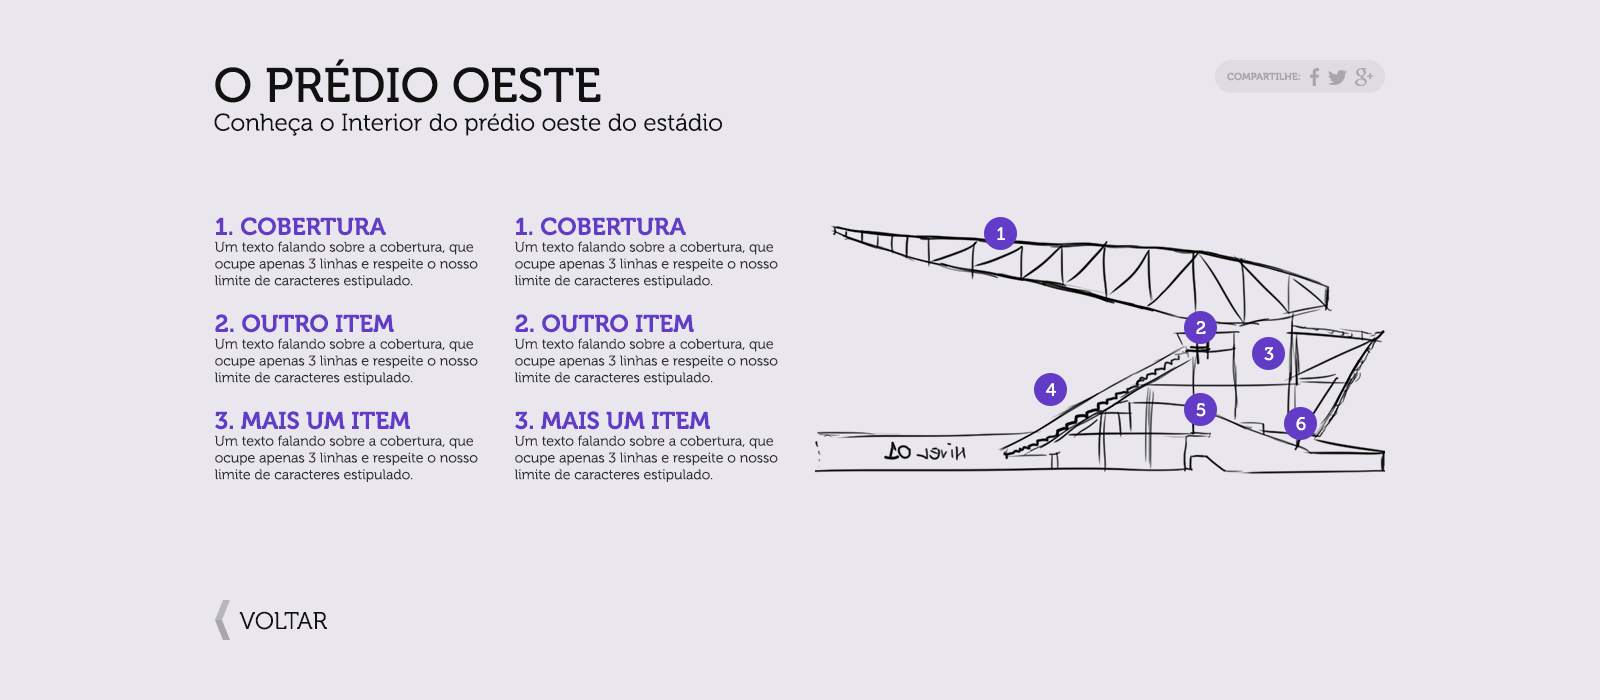
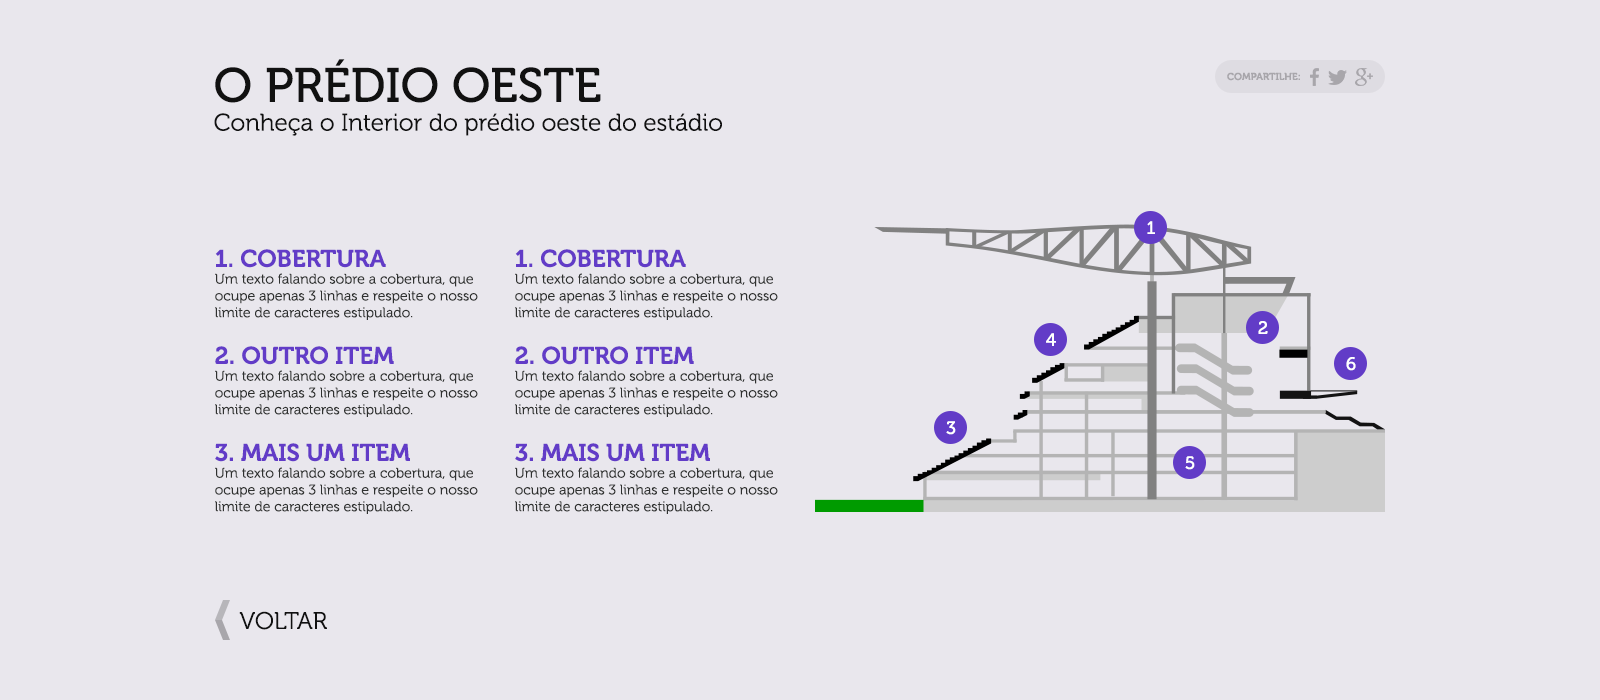
Automated commit at 2014-04-24 06:54:26 UTC by middleman-deploy 0.2.3

Changed region(s): [[0.125, 0.3, 0.875, 0.75]]

diff --git a/assets/stylesheets/arena-corinthians.css b/assets/stylesheets/arena-corinthians.css
@@ -1,1 +1,1 @@
-@import url(http://fonts.googleapis.com/css?family=Lato:300,400,700,300italic,400italic,700italic);*{-webkit-box-sizing:border-box;-moz-box-sizing:border-box;box-sizing:border-box}@-webkit-keyframes pulse-point{0%,100%{background-color:rgba(255,255,255,0.9)}50%{background-color:rgba(255,255,255,0.6)}}@-moz-keyframes pulse-point{0%,100%{background-color:rgba(255,255,255,0.9)}50%{background-color:rgba(255,255,255,0.6)}}@-o-keyframes pulse-point{0%,100%{background-color:rgba(255,255,255,0.9)}50%{background-color:rgba(255,255,255,0.6)}}@keyframes pulse-point{0%,100%{background-color:rgba(255,255,255,0.9)}50%{background-color:rgba(255,255,255,0.6)}}@font-face{font-family:'Museo300Regular';src:url("../fonts/museo_300/Museo300-Regular-webfont.eot");src:url("../fonts/museo_300/Museo300-Regular-webfont.eot?#iefix") format("embedded-opentype"),url("../fonts/museo_300/Museo300-Regular-webfont.woff") format("woff"),url("../fonts/museo_300/Museo300-Regular-webfont.ttf") format("truetype"),url("../fonts/museo_300/Museo300-Regular-webfont.svg#Museo300Regular") format("svg");font-weight:400;font-style:normal}@font-face{font-family:'Museo500Regular';src:url("../fonts/museo_500/Museo500-Regular-webfont.eot");src:url("../fonts/museo_500/Museo500-Regular-webfont.eot?#iefix") format("embedded-opentype"),url("../fonts/museo_500/Museo500-Regular-webfont.woff") format("woff"),url("../fonts/museo_500/Museo500-Regular-webfont.ttf") format("truetype"),url("../fonts/museo_500/Museo500-Regular-webfont.svg#Museo500Regular") format("svg");font-weight:400;font-style:normal}@font-face{font-family:'Museo700Regular';src:url("../fonts/museo_700/Museo700-Regular-webfont.eot");src:url("../fonts/museo_700/Museo700-Regular-webfont.eot?#iefix") format("embedded-opentype"),url("../fonts/museo_700/Museo700-Regular-webfont.woff") format("woff"),url("../fonts/museo_700/Museo700-Regular-webfont.ttf") format("truetype"),url("../fonts/museo_700/Museo700-Regular-webfont.svg#Museo700Regular") format("svg");font-weight:400;font-style:normal}*{margin:0;padding:0;-webkit-box-sizing:border-box;-moz-box-sizing:border-box;box-sizing:border-box}*:after,*:before{-webkit-box-sizing:border-box;-moz-box-sizing:border-box;box-sizing:border-box}html{background:white}body{font-size:100%;line-height:1;font-family:Open Sans,Arial,Helvetica,Sans-serif}img{max-width:100%}main{display:block}body{-webkit-font-smoothing:antialiased;-moz-font-smoothing:antialiased;font-smoothing:antialiased;background-color:white;font-size:15px;padding:0;font-family:"Lato",sans-serif}.section{position:relative}#infographic{width:100%}#infographic .section{background-color:white;background-position:center top;background-repeat:no-repeat}#infographic .container{height:700px;margin:0 auto;max-width:1200px;outline:1px solid red;padding:60px 10px;position:relative}#infographic .title{position:absolute;top:57px;left:15px;width:1000px}#infographic .title h1{font-family:Museo500Regular;text-transform:uppercase;font-size:48px;line-height:47px;letter-spacing:-1px;color:#2e3130}#infographic .title p{font-family:Museo300Regular;font-size:24px;color:red;letter-spacing:-0.2px;line-height:28px;color:#2e3130}#start{background-image:url("../images/arena-corinthians/start/arena-corinthians.png");background-color:white}#start .title h1{color:#623cc7}#start .title p{color:#2e3130}#start .arena-hover{-webkit-transition:all .2s linear;-webkit-transition-delay:0s;-moz-transition:all .2s linear false;-o-transition:all .2s linear false;transition:all .2s linear false;position:absolute;opacity:0;cursor:pointer}#start .arena-hover:hover{opacity:1}#start #arena-corinthians-leste{width:598px;height:315px;background-image:url("../images/arena-corinthians/start/arena-corinthians-leste-hover.png");top:226px;left:101px}#start #arena-corinthians-oeste{width:632px;height:261px;background-image:url("../images/arena-corinthians/start/arena-corinthians-oeste-hover.png");top:166px;left:466px}#start #pontos li{width:30px;height:30px;-webkit-border-radius:30px;-moz-border-radius:30px;-ms-border-radius:30px;-o-border-radius:30px;border-radius:30px;-webkit-animation:pulse-point 3s infinite;-moz-animation:pulse-point 3s infinite;animation:pulse-point 3s infinite;-webkit-box-shadow:0 0 3px #cccccc;-moz-box-shadow:0 0 3px #cccccc;box-shadow:0 0 3px #cccccc;list-style:none;background-color:rgba(255,255,255,0.5);position:absolute;cursor:pointer;z-index:1}#start #pontos li:before{width:14px;height:14px;-webkit-border-radius:14px;-moz-border-radius:14px;-ms-border-radius:14px;-o-border-radius:14px;border-radius:14px;-webkit-transition:all .1s linear;-webkit-transition-delay:0s;-moz-transition:all .1s linear false;-o-transition:all .1s linear false;transition:all .1s linear false;position:absolute;top:8px;left:8px;content:"";background-color:#623cc7}#start #pontos li#ponto-1{top:505px;left:155px}#start #pontos li#ponto-2{top:393px;left:285px}#start #pontos li#ponto-3{top:312px;left:385px}#start #pontos li#ponto-4{top:299px;left:631px}#start #pontos li#ponto-5{top:415px;left:624px}#start #pontos li#ponto-6{top:281px;left:685px}#start #pontos li#ponto-7{top:366px;left:685px}#start #pontos li#ponto-8{top:374px;left:835px}#start #pontos li#ponto-9{top:205px;left:1035px}#start #pontos li:hover{-webkit-box-shadow:0 0 3px #aaaaaa;-moz-box-shadow:0 0 3px #aaaaaa;box-shadow:0 0 3px #aaaaaa;-webkit-animation:pulse-point .5s infinite;-moz-animation:pulse-point .5s infinite;animation:pulse-point .5s infinite;z-index:2}#start #pontos li:hover:before{width:18px;height:18px;-webkit-border-radius:18px;-moz-border-radius:18px;-ms-border-radius:18px;-o-border-radius:18px;border-radius:18px;top:6px;left:6px}#start #pontos li:hover span{opacity:1;top:-51px}#start #pontos li span{-webkit-transition:all .2s linear;-webkit-transition-delay:0s;-moz-transition:all .2s linear false;-o-transition:all .2s linear false;transition:all .2s linear false;opacity:0;background:#623cc7;text-transform:uppercase;font-size:18px;color:white;position:absolute;top:-41px;left:-200%;line-height:32px;padding:0 30px;border-radius:6px}#start #pontos li span:before{width:0;height:0;content:"";font-family:Museo500Regular;border:10px solid transparent;border-color:#623cc7 transparent transparent transparent;position:absolute;left:calc(50% - 20px);bottom:-20px}#start #menu{text-transform:uppercase;font-size:28px;position:absolute;top:560px;left:15px;width:100%;text-align:center;font-family:Museo700Regular}#start #menu ul{list-style:none}#start #menu li{display:block;width:270px;margin-right:30px;height:80px;position:relative;float:left}#start #menu li:hover:before{color:#623cc7;left:10px}#start #menu li:hover:after{color:#623cc7;right:10px}#start #menu li:before{-webkit-transition:all .2s linear;-webkit-transition-delay:0s;-moz-transition:all .2s linear false;-o-transition:all .2s linear false;transition:all .2s linear false;content:"{";font-size:96px;position:absolute;top:-8px;left:0;color:#ceccd1}#start #menu li:after{-webkit-transition:all .2s linear;-webkit-transition-delay:0s;-moz-transition:all .2s linear false;-o-transition:all .2s linear false;transition:all .2s linear false;content:"}";font-size:96px;position:absolute;top:-8px;right:0;color:#ceccd1}#start #menu a{display:block;text-decoration:none;padding-top:16px;color:#623cc7}#start #menu span{display:block;font-size:18px;color:#9c9b9f}#east_building{background-image:url("../images/arena-corinthians/layout/east_building.png");background-color:white;background-position:center top;height:700px;width:1200px}#east_building .title{position:absolute;top:63px;left:14px;letter-spacing:-2px;width:550px;color:red}#east_building .title h1{font-family:Museo500Regular;text-transform:uppercase;font-size:48px}#east_building .title p{font-family:Museo300Regular;font-size:24px;letter-spacing:.8px;line-height:26px}#west_building{background-image:url("../images/arena-corinthians/layout/west_building.png");background-color:white;background-position:center top;height:700px;width:1200px}#west_building .title{position:absolute;top:63px;left:14px;letter-spacing:-2px;width:550px;color:red}#west_building .title h1{font-family:Museo500Regular;text-transform:uppercase;font-size:48px}#west_building .title p{font-family:Museo300Regular;font-size:24px;letter-spacing:.8px;line-height:26px}#lockers{background-image:url("../images/arena-corinthians/layout/lockers.png");background-color:white;background-position:center top;height:700px;width:1200px}#lockers .title{position:absolute;top:63px;left:14px;letter-spacing:-2px;width:550px;color:red}#lockers .title h1{font-family:Museo500Regular;text-transform:uppercase;font-size:48px}#lockers .title p{font-family:Museo300Regular;font-size:24px;letter-spacing:.8px;line-height:26px}#screen{background-image:url("../images/arena-corinthians/layout/screen.png");background-color:white;background-position:center top;height:700px;width:1200px}#screen .title{position:absolute;top:63px;left:14px;letter-spacing:-2px;width:550px;color:red}#screen .title h1{font-family:Museo500Regular;text-transform:uppercase;font-size:48px}#screen .title p{font-family:Museo300Regular;font-size:24px;letter-spacing:.8px;line-height:26px}#comparative{background-image:url("../images/arena-corinthians/layout/comparative.png");background-color:white;background-position:center top;height:700px;width:1200px}#comparative .title{position:absolute;top:63px;left:14px;letter-spacing:-2px;width:550px;color:red}#comparative .title h1{font-family:Museo500Regular;text-transform:uppercase;font-size:48px}#comparative .title p{font-family:Museo300Regular;font-size:24px;letter-spacing:.8px;line-height:26px}#about{background-image:url("../images/arena-corinthians/layout/about.png");background-color:white;background-position:center top;height:700px;width:1200px}#about .title{position:absolute;top:63px;left:14px;letter-spacing:-2px;width:550px;color:red}#about .title h1{font-family:Museo500Regular;text-transform:uppercase;font-size:48px}#about .title p{font-family:Museo300Regular;font-size:24px;letter-spacing:.8px;line-height:26px}#numbers{background-image:url("../images/arena-corinthians/layout/numbers.png");background-color:white;background-position:center top;height:700px;width:1200px}#numbers .title{position:absolute;top:63px;left:14px;letter-spacing:-2px;width:650px;color:red}#numbers .title h1{font-family:Museo500Regular;text-transform:uppercase;font-size:48px}#numbers .title p{font-family:Museo300Regular;font-size:24px;letter-spacing:.8px;line-height:26px}#controversies{background-image:url("../images/arena-corinthians/layout/controversies.png");background-color:white;background-position:center top;height:700px;width:1200px}#controversies .title{position:absolute;top:63px;left:14px;letter-spacing:-2px;width:650px;color:red}#controversies .title h1{font-family:Museo500Regular;text-transform:uppercase;font-size:48px}#controversies .title p{font-family:Museo300Regular;font-size:24px;letter-spacing:.8px;line-height:26px}#curiosities{background-image:url("../images/arena-corinthians/layout/curiosities.png");background-color:white;background-position:center top;height:700px;width:1200px}#curiosities .title{position:absolute;top:63px;left:14px;letter-spacing:-2px;width:650px;color:red}#curiosities .title h1{font-family:Museo500Regular;text-transform:uppercase;font-size:48px}#curiosities .title p{font-family:Museo300Regular;font-size:24px;letter-spacing:.8px;line-height:26px}#vote{background-image:url("../images/arena-corinthians/layout/vote.png");background-color:white;background-position:center top;height:700px;width:1200px}#vote .title{position:absolute;top:63px;left:14px;letter-spacing:-2px;width:100%;text-align:center;color:red}#vote .title h1{font-family:Museo500Regular;text-transform:uppercase;font-size:48px}#vote .title p{font-family:Museo700Regular;font-size:24px;letter-spacing:.8px;line-height:26px;margin-top:50px}@media print{*{-webkit-print-color-adjust:exact}body{padding:0;background-color:transparent}a{text-decoration:none}}
+@import url(http://fonts.googleapis.com/css?family=Lato:300,400,700,300italic,400italic,700italic);*{-webkit-box-sizing:border-box;-moz-box-sizing:border-box;box-sizing:border-box}@-webkit-keyframes pulse-point{0%,100%{background-color:rgba(255,255,255,0.9)}50%{background-color:rgba(255,255,255,0.6)}}@-moz-keyframes pulse-point{0%,100%{background-color:rgba(255,255,255,0.9)}50%{background-color:rgba(255,255,255,0.6)}}@-o-keyframes pulse-point{0%,100%{background-color:rgba(255,255,255,0.9)}50%{background-color:rgba(255,255,255,0.6)}}@keyframes pulse-point{0%,100%{background-color:rgba(255,255,255,0.9)}50%{background-color:rgba(255,255,255,0.6)}}@font-face{font-family:'Museo300Regular';src:url("../fonts/museo_300/Museo300-Regular-webfont.eot");src:url("../fonts/museo_300/Museo300-Regular-webfont.eot?#iefix") format("embedded-opentype"),url("../fonts/museo_300/Museo300-Regular-webfont.woff") format("woff"),url("../fonts/museo_300/Museo300-Regular-webfont.ttf") format("truetype"),url("../fonts/museo_300/Museo300-Regular-webfont.svg#Museo300Regular") format("svg");font-weight:400;font-style:normal}@font-face{font-family:'Museo500Regular';src:url("../fonts/museo_500/Museo500-Regular-webfont.eot");src:url("../fonts/museo_500/Museo500-Regular-webfont.eot?#iefix") format("embedded-opentype"),url("../fonts/museo_500/Museo500-Regular-webfont.woff") format("woff"),url("../fonts/museo_500/Museo500-Regular-webfont.ttf") format("truetype"),url("../fonts/museo_500/Museo500-Regular-webfont.svg#Museo500Regular") format("svg");font-weight:400;font-style:normal}@font-face{font-family:'Museo700Regular';src:url("../fonts/museo_700/Museo700-Regular-webfont.eot");src:url("../fonts/museo_700/Museo700-Regular-webfont.eot?#iefix") format("embedded-opentype"),url("../fonts/museo_700/Museo700-Regular-webfont.woff") format("woff"),url("../fonts/museo_700/Museo700-Regular-webfont.ttf") format("truetype"),url("../fonts/museo_700/Museo700-Regular-webfont.svg#Museo700Regular") format("svg");font-weight:400;font-style:normal}*{margin:0;padding:0;-webkit-box-sizing:border-box;-moz-box-sizing:border-box;box-sizing:border-box}*:after,*:before{-webkit-box-sizing:border-box;-moz-box-sizing:border-box;box-sizing:border-box}html{background:white}body{font-size:100%;line-height:1;font-family:Open Sans,Arial,Helvetica,Sans-serif}img{max-width:100%}main{display:block}body{-webkit-font-smoothing:antialiased;-moz-font-smoothing:antialiased;font-smoothing:antialiased;background-color:white;font-size:15px;padding:0;font-family:"Lato",sans-serif}.section{position:relative}#infographic{width:100%}#infographic .section{background-color:white;background-position:center top;background-repeat:no-repeat}#infographic .container{height:700px;margin:0 auto;max-width:1200px;outline:1px solid red;padding:60px 10px;position:relative}#infographic .title{position:absolute;top:57px;left:15px;width:1000px}#infographic .title h1{font-family:Museo500Regular;text-transform:uppercase;font-size:48px;line-height:47px;letter-spacing:-1px;color:#2e3130}#infographic .title p{font-family:Museo300Regular;font-size:24px;color:red;letter-spacing:-0.2px;line-height:28px;color:#2e3130}#start{background-image:url("../images/arena-corinthians/start/arena-corinthians.png");background-color:white}#start .title h1{color:#623cc7}#start .title p{color:#2e3130}#start .arena-hover{-webkit-transition:all .2s linear;-webkit-transition-delay:0s;-moz-transition:all .2s linear false;-o-transition:all .2s linear false;transition:all .2s linear false;position:absolute;opacity:0;cursor:pointer}#start .arena-hover:hover{opacity:1}#start #arena-corinthians-leste{width:598px;height:315px;background-image:url("../images/arena-corinthians/start/arena-corinthians-leste-hover.png");top:226px;left:101px}#start #arena-corinthians-oeste{width:632px;height:261px;background-image:url("../images/arena-corinthians/start/arena-corinthians-oeste-hover.png");top:166px;left:466px}#start #pontos li{width:30px;height:30px;-webkit-border-radius:30px;-moz-border-radius:30px;-ms-border-radius:30px;-o-border-radius:30px;border-radius:30px;-webkit-animation:pulse-point 3s infinite;-moz-animation:pulse-point 3s infinite;animation:pulse-point 3s infinite;-webkit-box-shadow:0 0 3px #cccccc;-moz-box-shadow:0 0 3px #cccccc;box-shadow:0 0 3px #cccccc;list-style:none;background-color:rgba(255,255,255,0.5);position:absolute;cursor:pointer;z-index:1}#start #pontos li:before{width:14px;height:14px;-webkit-border-radius:14px;-moz-border-radius:14px;-ms-border-radius:14px;-o-border-radius:14px;border-radius:14px;-webkit-transition:all .1s linear;-webkit-transition-delay:0s;-moz-transition:all .1s linear false;-o-transition:all .1s linear false;transition:all .1s linear false;position:absolute;top:8px;left:8px;content:"";background-color:#623cc7}#start #pontos li#ponto-1{top:505px;left:155px}#start #pontos li#ponto-2{top:393px;left:285px}#start #pontos li#ponto-3{top:312px;left:385px}#start #pontos li#ponto-4{top:299px;left:631px}#start #pontos li#ponto-5{top:415px;left:624px}#start #pontos li#ponto-6{top:281px;left:685px}#start #pontos li#ponto-7{top:366px;left:685px}#start #pontos li#ponto-8{top:374px;left:835px}#start #pontos li#ponto-9{top:205px;left:1035px}#start #pontos li:hover{-webkit-box-shadow:0 0 3px #aaaaaa;-moz-box-shadow:0 0 3px #aaaaaa;box-shadow:0 0 3px #aaaaaa;-webkit-animation:pulse-point .5s infinite;-moz-animation:pulse-point .5s infinite;animation:pulse-point .5s infinite;z-index:2}#start #pontos li:hover:before{width:18px;height:18px;-webkit-border-radius:18px;-moz-border-radius:18px;-ms-border-radius:18px;-o-border-radius:18px;border-radius:18px;top:6px;left:6px}#start #pontos li:hover span{opacity:1;top:-51px}#start #pontos li span{-webkit-transition:all .2s linear;-webkit-transition-delay:0s;-moz-transition:all .2s linear false;-o-transition:all .2s linear false;transition:all .2s linear false;opacity:0;background:#623cc7;text-transform:uppercase;font-size:18px;color:white;position:absolute;top:-41px;left:-200%;line-height:32px;padding:0 30px;border-radius:6px}#start #pontos li span:before{width:0;height:0;content:"";font-family:Museo500Regular;border:10px solid transparent;border-color:#623cc7 transparent transparent transparent;position:absolute;left:calc(50% - 20px);bottom:-20px}#start #menu{text-transform:uppercase;font-size:28px;position:absolute;top:560px;left:15px;width:100%;text-align:center;font-family:Museo700Regular}#start #menu ul{list-style:none}#start #menu li{display:block;width:270px;margin-right:30px;height:80px;position:relative;float:left}#start #menu li:hover:before{color:#623cc7;left:10px}#start #menu li:hover:after{color:#623cc7;right:10px}#start #menu li:before{-webkit-transition:all .2s linear;-webkit-transition-delay:0s;-moz-transition:all .2s linear false;-o-transition:all .2s linear false;transition:all .2s linear false;content:"{";font-size:96px;position:absolute;top:-8px;left:0;color:#ceccd1}#start #menu li:after{-webkit-transition:all .2s linear;-webkit-transition-delay:0s;-moz-transition:all .2s linear false;-o-transition:all .2s linear false;transition:all .2s linear false;content:"}";font-size:96px;position:absolute;top:-8px;right:0;color:#ceccd1}#start #menu a{display:block;text-decoration:none;padding-top:16px;color:#623cc7}#start #menu span{display:block;font-size:18px;color:#9c9b9f}#east_building{background-image:url("../images/arena-corinthians/layout/east_building.png")}#west_building{background-image:url("../images/arena-corinthians/layout/west_building.png");background-color:white}#lockers{background-image:url("../images/arena-corinthians/layout/lockers.png")}#screen{background-image:url("../images/arena-corinthians/layout/screen.png")}#comparative{background-image:url("../images/arena-corinthians/layout/comparative.png")}#about{background-image:url("../images/arena-corinthians/layout/about.png")}#numbers{background-image:url("../images/arena-corinthians/layout/numbers.png")}#controversies{background-image:url("../images/arena-corinthians/layout/controversies.png")}#curiosities{background-image:url("../images/arena-corinthians/layout/curiosities.png")}#vote{background-image:url("../images/arena-corinthians/layout/vote.png");background-color:black}#vote .title{text-align:center;width:1170px}#vote .title h1{margin-bottom:50px;color:white}#vote .title p{color:white}@media print{*{-webkit-print-color-adjust:exact}body{padding:0;background-color:transparent}a{text-decoration:none}}

diff --git a/arena-corinthians/index.html b/arena-corinthians/index.html
@@ -96,103 +96,123 @@
   </div>
 </div>
   <div id="east_building" class="section">
-  <div class="title">
-    <h1>
-      O prédio leste
-    </h1>
-    <p>
-      Conheça o interior do prédio leste do estádio
-    </p>
+  <div class="container">
+    <div class="title">
+      <h1>
+        O prédio leste
+      </h1>
+      <p>
+        Conheça o interior do prédio leste do estádio
+      </p>
+    </div>
   </div>
 </div>
   <div id="west_building" class="section">
-  <div class="title">
-    <h1>
-      O prédio oeste
-    </h1>
-    <p>
-      Conheça o interior do prédio oeste do estádio
-    </p>
+  <div class="container">
+    <div class="title">
+      <h1>
+        O prédio oeste
+      </h1>
+      <p>
+        Conheça o interior do prédio oeste do estádio
+      </p>
+    </div>
   </div>
 </div>
   <div id="lockers" class="section">
-  <div class="title">
-    <h1>
-      Os vestiários
-    </h1>
-    <p>
-      
-    </p>
+  <div class="container">
+    <div class="title">
+      <h1>
+        Os vestiários
+      </h1>
+      <p>
+        
+      </p>
+    </div>
   </div>
 </div>
   <div id="screen" class="section">
-  <div class="title">
-    <h1>
-      O telão
-    </h1>
-    <p>
-      
-    </p>
+  <div class="container">
+    <div class="title">
+      <h1>
+        O telão
+      </h1>
+      <p>
+        
+      </p>
+    </div>
   </div>
 </div>
   <div id="comparative" class="section">
-  <div class="title">
-    <h1>
-      Comparativo
-    </h1>
-    <p>
-      
-    </p>
+  <div class="container">
+    <div class="title">
+      <h1>
+        Comparativo
+      </h1>
+      <p>
+        
+      </p>
+    </div>
   </div>
 </div>
   <div id="about" class="section">
-  <div class="title">
-    <h1>
-      Uma grande obra
-    </h1>
-    <p>
-      Alguns detalhes sobre as obras e construção
-    </p>
+  <div class="container">
+    <div class="title">
+      <h1>
+        Uma grande obra
+      </h1>
+      <p>
+        Alguns detalhes sobre as obras e construção
+      </p>
+    </div>
   </div>
 </div>
   <div id="numbers" class="section">
-  <div class="title">
-    <h1>
-      O Itaquerão em números
-    </h1>
-    <p>
-      etc etc
-    </p>
+  <div class="container">
+    <div class="title">
+      <h1>
+        O Itaquerão em números
+      </h1>
+      <p>
+        etc etc
+      </p>
+    </div>
   </div>
 </div>
   <div id="controversies" class="section">
-  <div class="title">
-    <h1>
-      Polêmicas
-    </h1>
-    <p>
-      Entenda os lances mais polêmicos dessa mega obra
-    </p>
+  <div class="container">
+    <div class="title">
+      <h1>
+        Polêmicas
+      </h1>
+      <p>
+        Entenda os lances mais polêmicos dessa mega obra
+      </p>
+    </div>
   </div>
 </div>
   <div id="curiosities" class="section">
-  <div class="title">
-    <h1>
-      Curiosidades
-    </h1>
-    <p>
-      etc etc
-    </p>
+  <div class="container">
+    <div class="title">
+      <h1>
+        Curiosidades
+      </h1>
+      <p>
+        etc etc
+      </p>
+    </div>
   </div>
 </div>
   <div id="vote" class="section">
-  <div class="title">
-    <h1>
-      Dê sua nota
-    </h1>
-    <p>
-      Qual nota você dá para o Itaqueirão?
-    </p>
+  <div class="container">
+    <div class="title">
+      <h1>
+        Dê sua nota
+      </h1>
+      <p>
+        Qual nota você dá para o Itaqueirão?
+      </p>
+    </div>
   </div>
 </div>
 </div>
